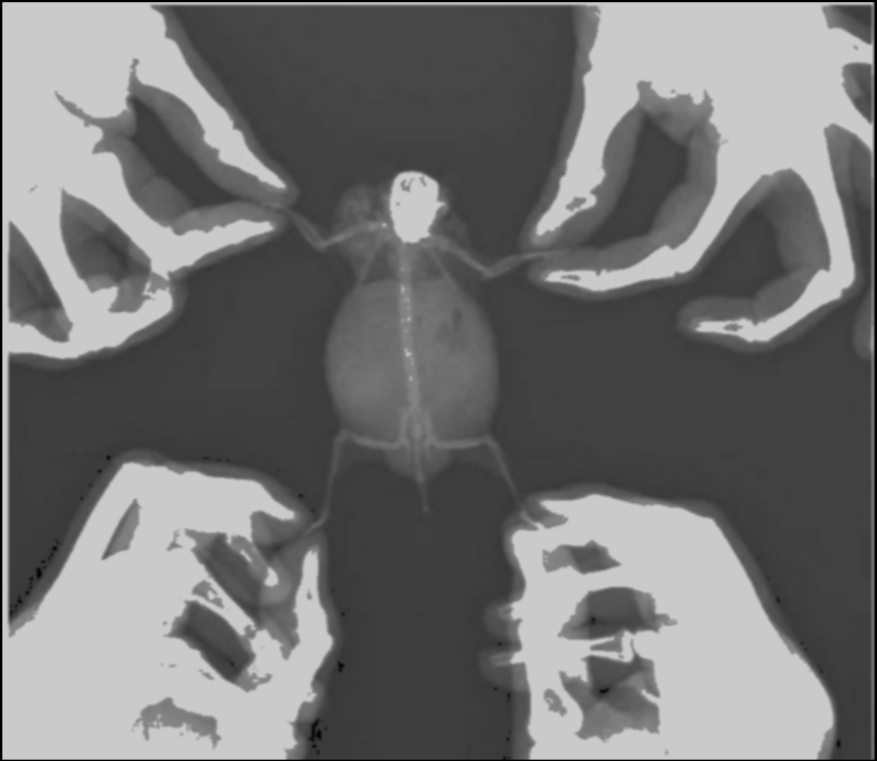
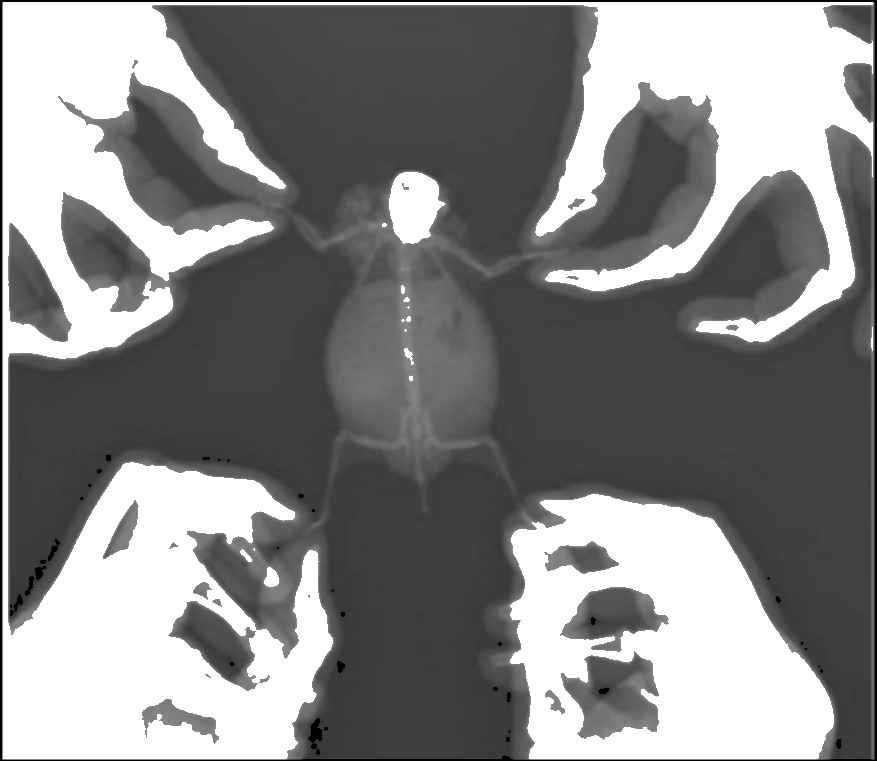
AAAAAAAAAA!!!!!!

diff --git a/gauss.c b/gauss.c
@@ -57,6 +57,16 @@ int main(){
             	odata2[iw*i+j]=0.0924*odata[iw*(i-1)+(j-1)]+0.01192*odata[iw*(i-1)+(j)]+0.0924*odata[iw*(i-1)+(j+1)]+0.1192*odata[iw*(i)+(j-1)]+0.1538*odata[iw*(i)+(j)]+0.1192*odata[iw*(i)+(j+1)]+0.0924*odata[iw*(i+1)+(j-1)]+0.1192*odata[iw*(i+1)+(j)]+0.0924*odata[iw*(i+1)+(j+1)];
         	}
 	}
+
+	
+	//Повышаем контрастностью Все, светлее 160, делаем белым. Все, что темнее 95, делаем черным
+	for(i=0; i<size; i++){
+		if(odata2[i]>140)
+			odata2[i] = 255;
+		else if(odata2[i]<50)
+			odata2[i] = 0;
+	}	
+
 	/*/Размытие по Гауссу
 
 	for(i=2; i<ih-2; i++)
